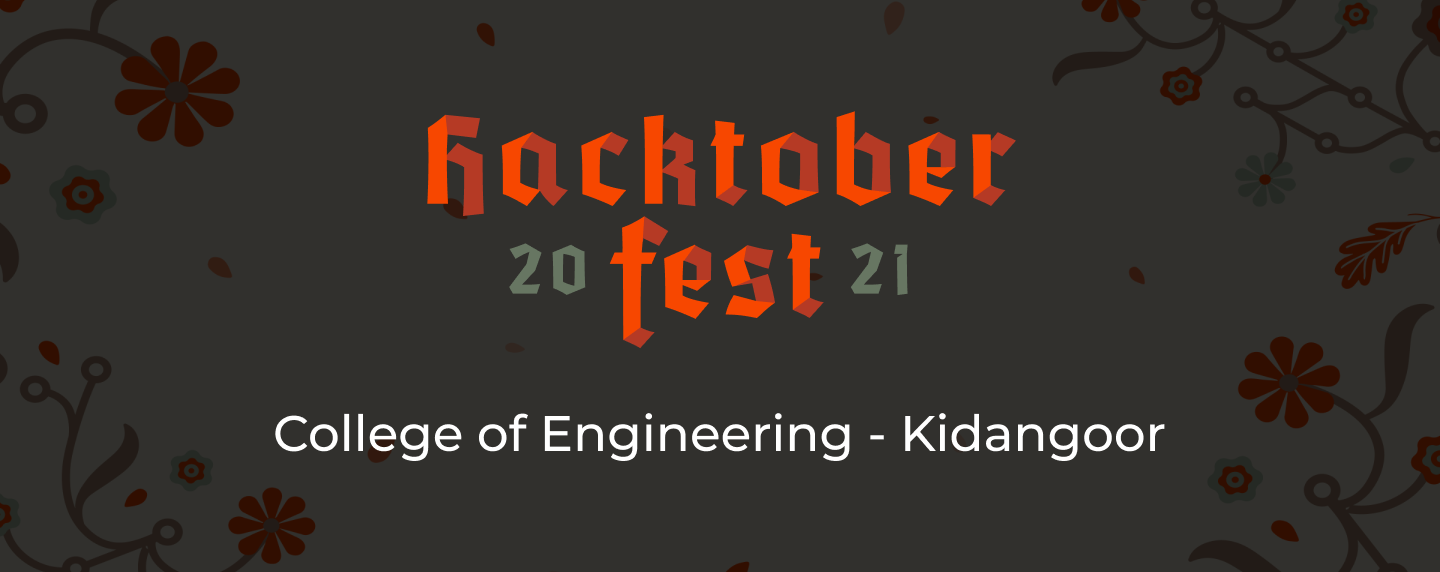
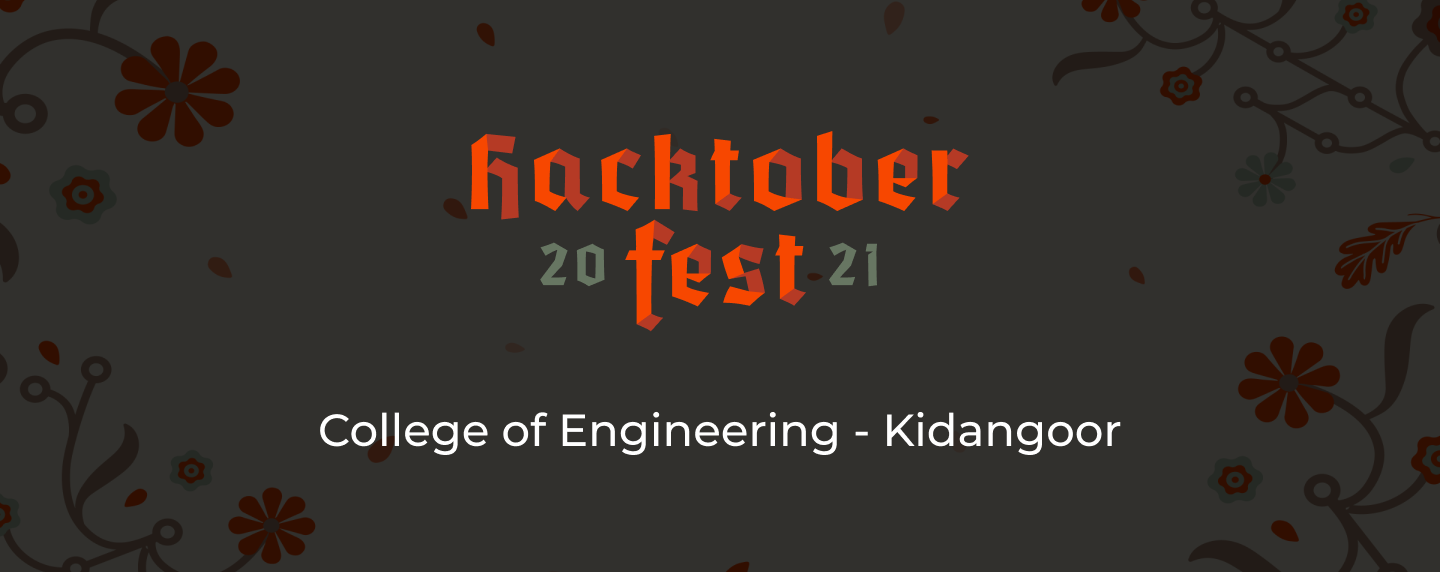
section_banner changed

Changed region(s): [[0.2812, 0.1783, 0.7188, 0.6241], [0.1875, 0.7133, 0.8125, 0.8024]]

diff --git a/index.html b/index.html
@@ -8,8 +8,7 @@
     <title>HacktoberFest2k21 | CEK</title>
     <link rel="stylesheet" href="static/css/style.css">
     <!-- Google Material Icons -->
-    <link href="https://fonts.googleapis.com/icon?family=Material+Icons"
-      rel="stylesheet">
+    <link href="https://fonts.googleapis.com/icon?family=Material+Icons" rel="stylesheet">
 </head>
 
 <body>
@@ -29,7 +28,7 @@
                 <a href="#" class="nav__item__active">Home</a>
             </li>
             <li class="nav__item">
-                <a href="#">Communities <span class="dropdown" style="font-size: 20px;">⌄</span></a>
+                <a href="#">Communities</a>
             </li>
             <li class="nav__item">
                 <a href="#">About</a>

diff --git a/static/css/style.css b/static/css/style.css
@@ -84,16 +84,6 @@ a.nav__item__active {
     padding: 50px 0;
 }
 
-.img__banner {
-    max-width: 450px;
-    width: 50%;    
-}
-
-.college__name {
-    color: #fff;
-    font-weight: 600;
-}
-
 .section__content {
     padding: 50px 10vw;
 }
@@ -204,13 +194,5 @@ a.nav__item__active {
         position: absolute;
         right: 10vw;
         cursor: pointer;
-    }
-
-    .img__banner {
-        width: 50%;
-    }
-
-    .college__name {
-        font-size: 18px;
     }
 }
